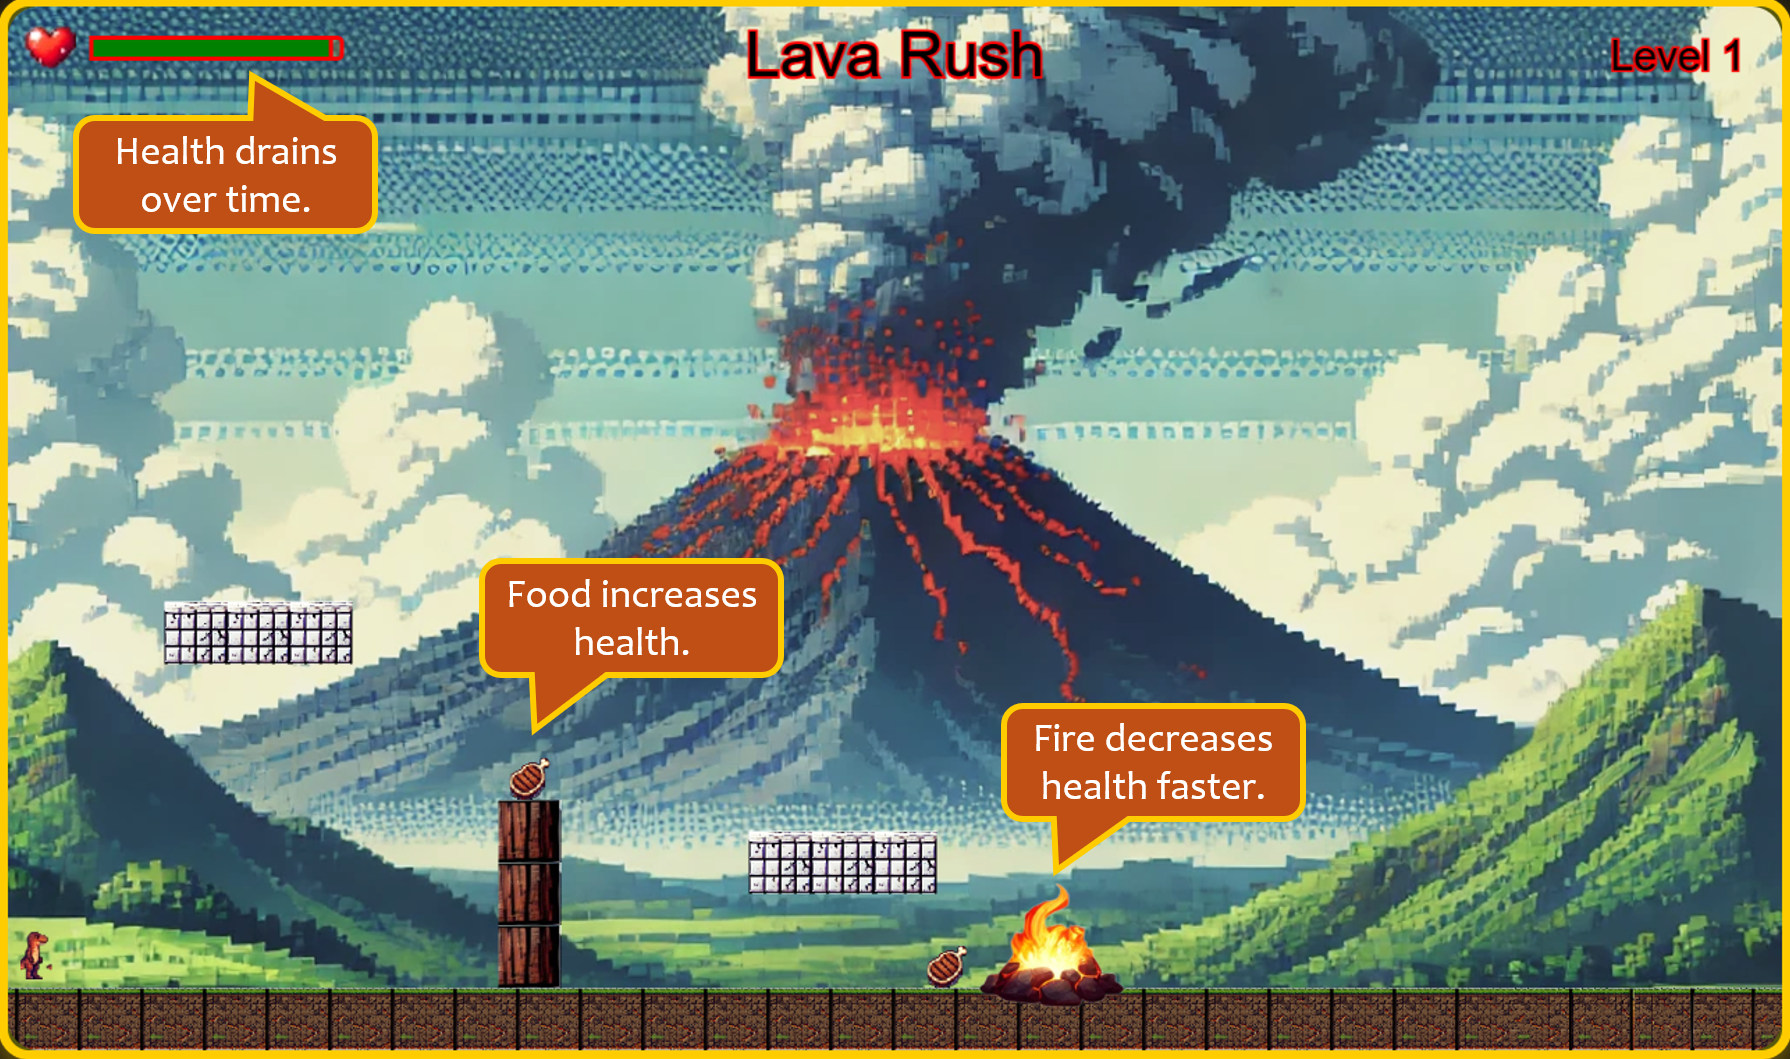
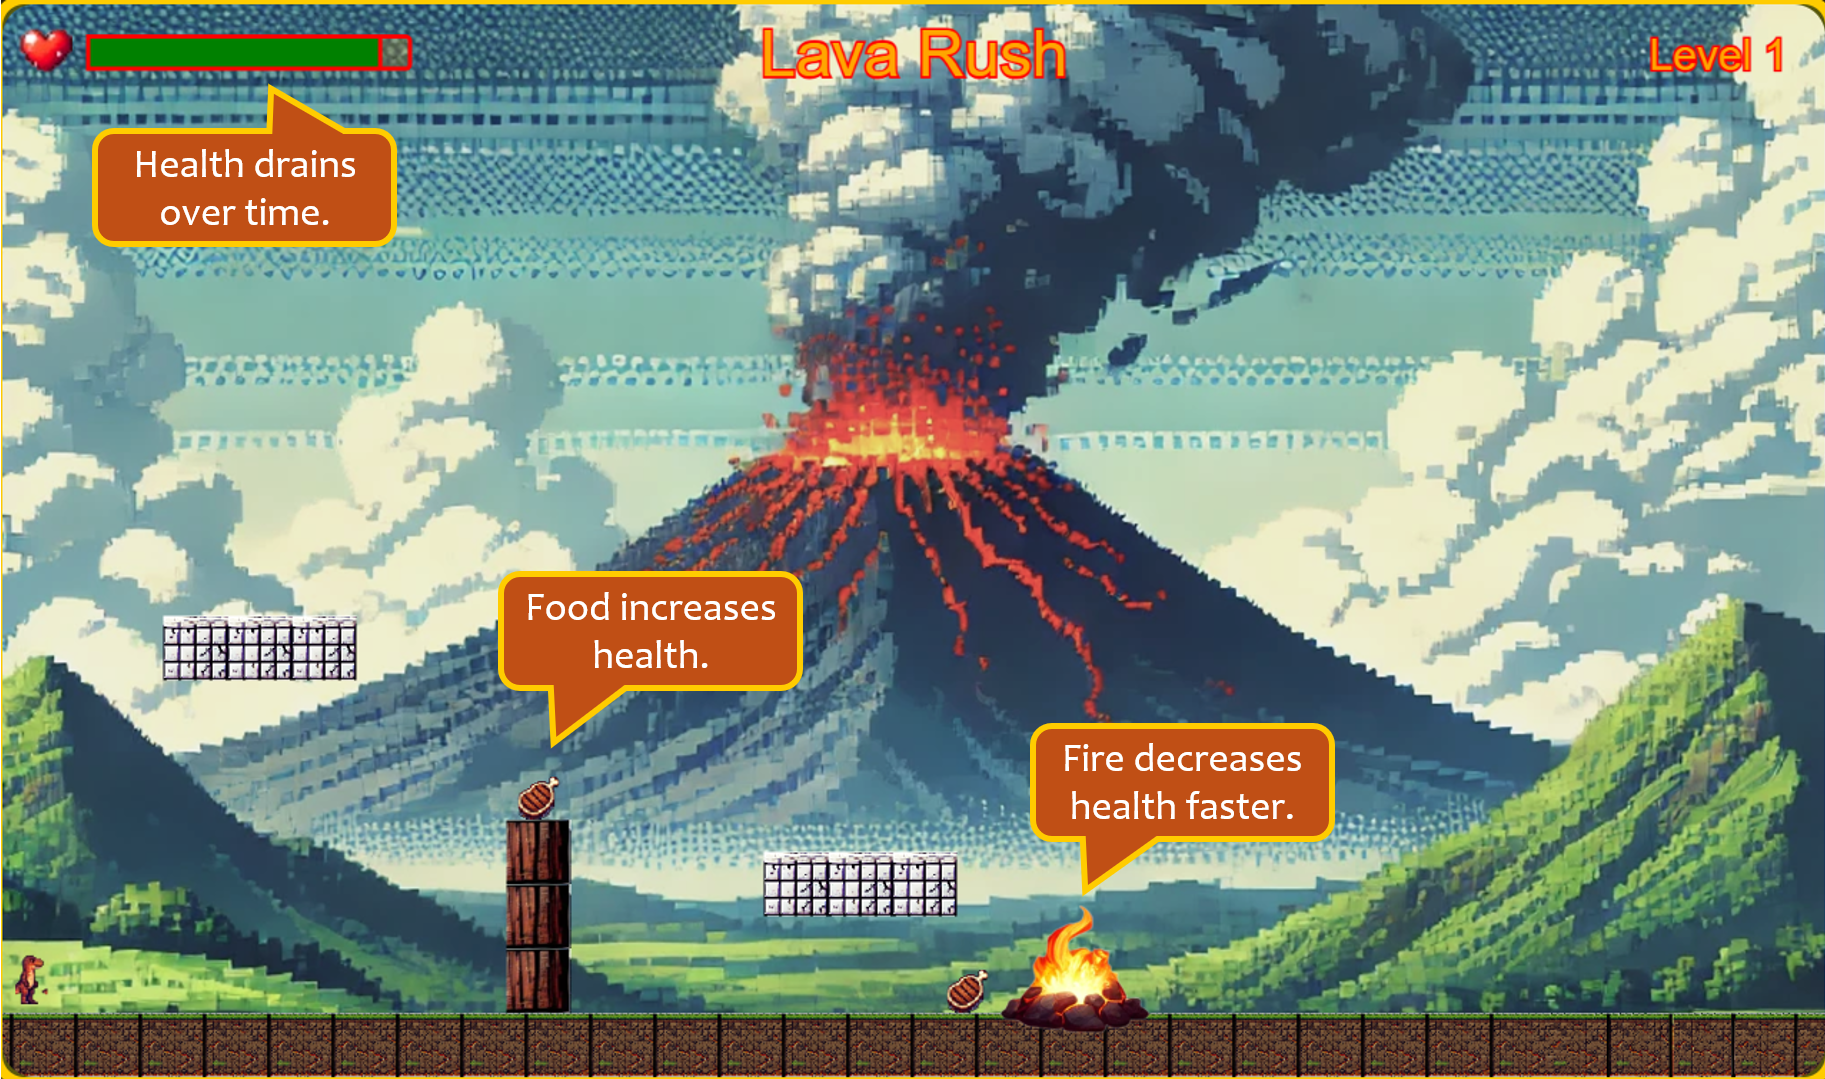
Make health bar and level 1 text more visible

diff --git a/docs/src/Health.js b/docs/src/Health.js
@@ -6,8 +6,8 @@ class Health {
       this.assetManager = assetManager;
       // Initialize the health bar
       this.percentage = Health.initialPercentage;
-      this.width = 4 * Brick.width;
-      this.height = Brick.height/3;
+      this.width = 5 * Brick.width;
+      this.height = Brick.height/2;
 
       this.x = 40;
       this.y = 15;
@@ -21,7 +21,7 @@ class Health {
     }
   
     display() {
-      image(this.assetManager.img_heart, 20, 20, 25, 25);
+      image(this.assetManager.img_heart, 20, 22, 30, 30);
       // Draw the rectangle with the top right corner point
       rectMode(CORNER);
       // A CSS named color.

diff --git a/docs/index.html b/docs/index.html
@@ -28,8 +28,8 @@
   <script src="src/Player.js"></script>
   <script src="src/sketch.js"></script>
   <p id="instructions">
-    Use the arrow keys to move the dinosaur and jump over the obstacles. <br>
-    Press ESCAPE to pause the game and press SPACE to resume.
+    Use ⬅⬆➡ keys to move the dinosaur.<br>
+    Press ESCAPE to pause and SPACE to resume.
   </p>
 </body>
 

diff --git a/docs/src/Game.js b/docs/src/Game.js
@@ -83,7 +83,7 @@ class Game {
         switch(this.currentMap)
         {
             case 0:
-                fill(0);
+                fill('orange');
                 stroke('red');
                 break;
             case 1:

diff --git a/docs/style.css b/docs/style.css
@@ -39,7 +39,7 @@ h1 {
   padding: 15px;
   border-radius: 10px;
   margin: 20px auto;
-  width: 50%;
+  width: 820px;
   font-size: 18px;
   font-weight: bold;
   color: #ffcc00;
